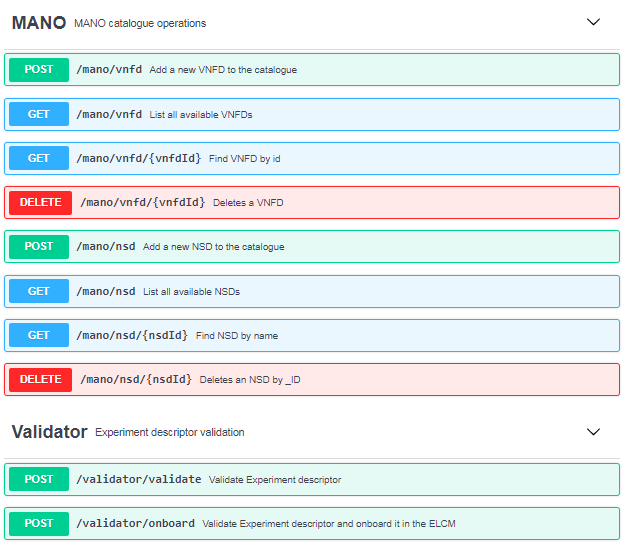
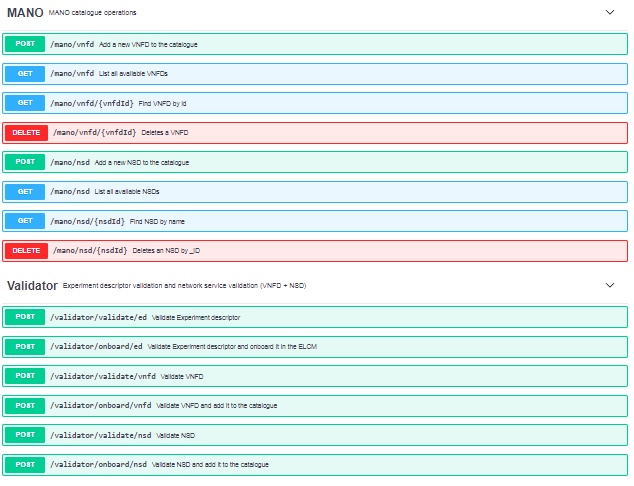
1.0.0

diff --git a/README.md b/README.md
@@ -25,8 +25,8 @@ The available features will depend on the features exposed by each dispatched mo
 - Get execution logs
 
 ##### Validator
-- Validation service: Validate Experiment Descriptor as a standalone service
-- Validate and onboard directly the Experiment Descriptor
+- Validation service: Validate Experiment descriptor, VNFD or NSD as a standalone service
+- Validate and onboard directly the Experiment descriptor in the ELCM, and the VNF descriptor or the NS descriptor in the NFVO
 
 
 ## Getting Started
@@ -38,10 +38,11 @@ These instructions will get you a copy of the project up and running on your loc
 For running the 5Genesis Dispatcher, you will need:
 - docker version >= 18.09.6
 - docker-compose version >= 1.17.1
+- Configuration files correctly filled up (including the config file inside the *validator* folder)
 
 ### Config file and installation
 The Dispatcher needs to be configured properly before it is deployed. For that a simplified configuration file is offered: `dispatcher.conf`, which will have to be edited and adapted.
-The file contains information of all the modules the Dispatcher forwards information to and how to do it. It uses the following format:
+The file contains information of all the modules the Dispatcher forwards information to and how to do it. For each module, a new enabler will be added in the Dispatcher. It uses the following format:
 
     [module_name]
     PROTOCOL=[http|https]
@@ -77,13 +78,13 @@ Once edited properly, the configuration should be applied and the containers bui
     PROTOCOL=5001
     PATH=/
     
-With the config file above, using the Validator as an **example**, the dispatcher will translate the original request to a new one:
+With the config file above, using the Validator API as an **example**, the dispatcher will translate the original request to a new one:
 > Original URL: http://192.168.33.105:5100/api/validate
 
 > Translated URL: http://{dispatcher_ip}:{dispatcher:port}/validator/validate
 
 ### Start
-The start script will deploy and run the Dispatcher container, the ED Validator and a Swagger environment to test the available features:
+The start script will deploy and run the Dispatcher container, the Validator and a Swagger environment to test the available features:
 
 `$ ./start.sh`
 
@@ -101,11 +102,14 @@ To stop the Dispatcher service just run the following:
 A swagger testing framework is deployed in port 5002 with the following API specifications:
 ![](./images/swagger.PNG)
 
+## Versioning
+- 1.0.0 - First stable version including all features
+
 ## Next steps
-- Improve the configuration file options
 - Add user authentication and registration
 - Add logging
 - Add cross-platform features
+- Include the *MANO Wrapper* as a default module inside the *Dispatcher* like the *Validator*
 
 ## Authors
 Javier Melian (javier.melian@atos.net)

diff --git a/validator/README.md b/validator/README.md
@@ -1,6 +1,6 @@
 # 5GENESIS Experiment descriptor Validator
 
-This module validates the correct syntax of the Experiment descriptor and the descriptors of the Network Service (VNFD + NSD)
+This module validates the correct syntax of the Experiment descriptor and the descriptors of the Network Service (VNFD + NSD). It allows two options: a stand alone validation service that returns whether the descriptor is correct or not and the onboarding option, which, besides the validation, performs the onboard of the descriptor after a successful validation.
 
 ## Experiment descriptor definition 
 ![](./images/ED.png)
@@ -59,6 +59,13 @@ Example:
 
 Example:
 > curl -X POST -F "ns=@./ns_descriptor.tar.gz" http://{dispatcher host}:8082/validator/onboard/nsd
+
+## Responses
+The *Validator* issues a response in string format along with a status code:
+- 200, 201: ok
+- 400: Error during the validation
+- 409: Conflict with descriptor already present
+- 500: Network error
 
 ## Next steps
 - Control required fields that depend on the value of another field
